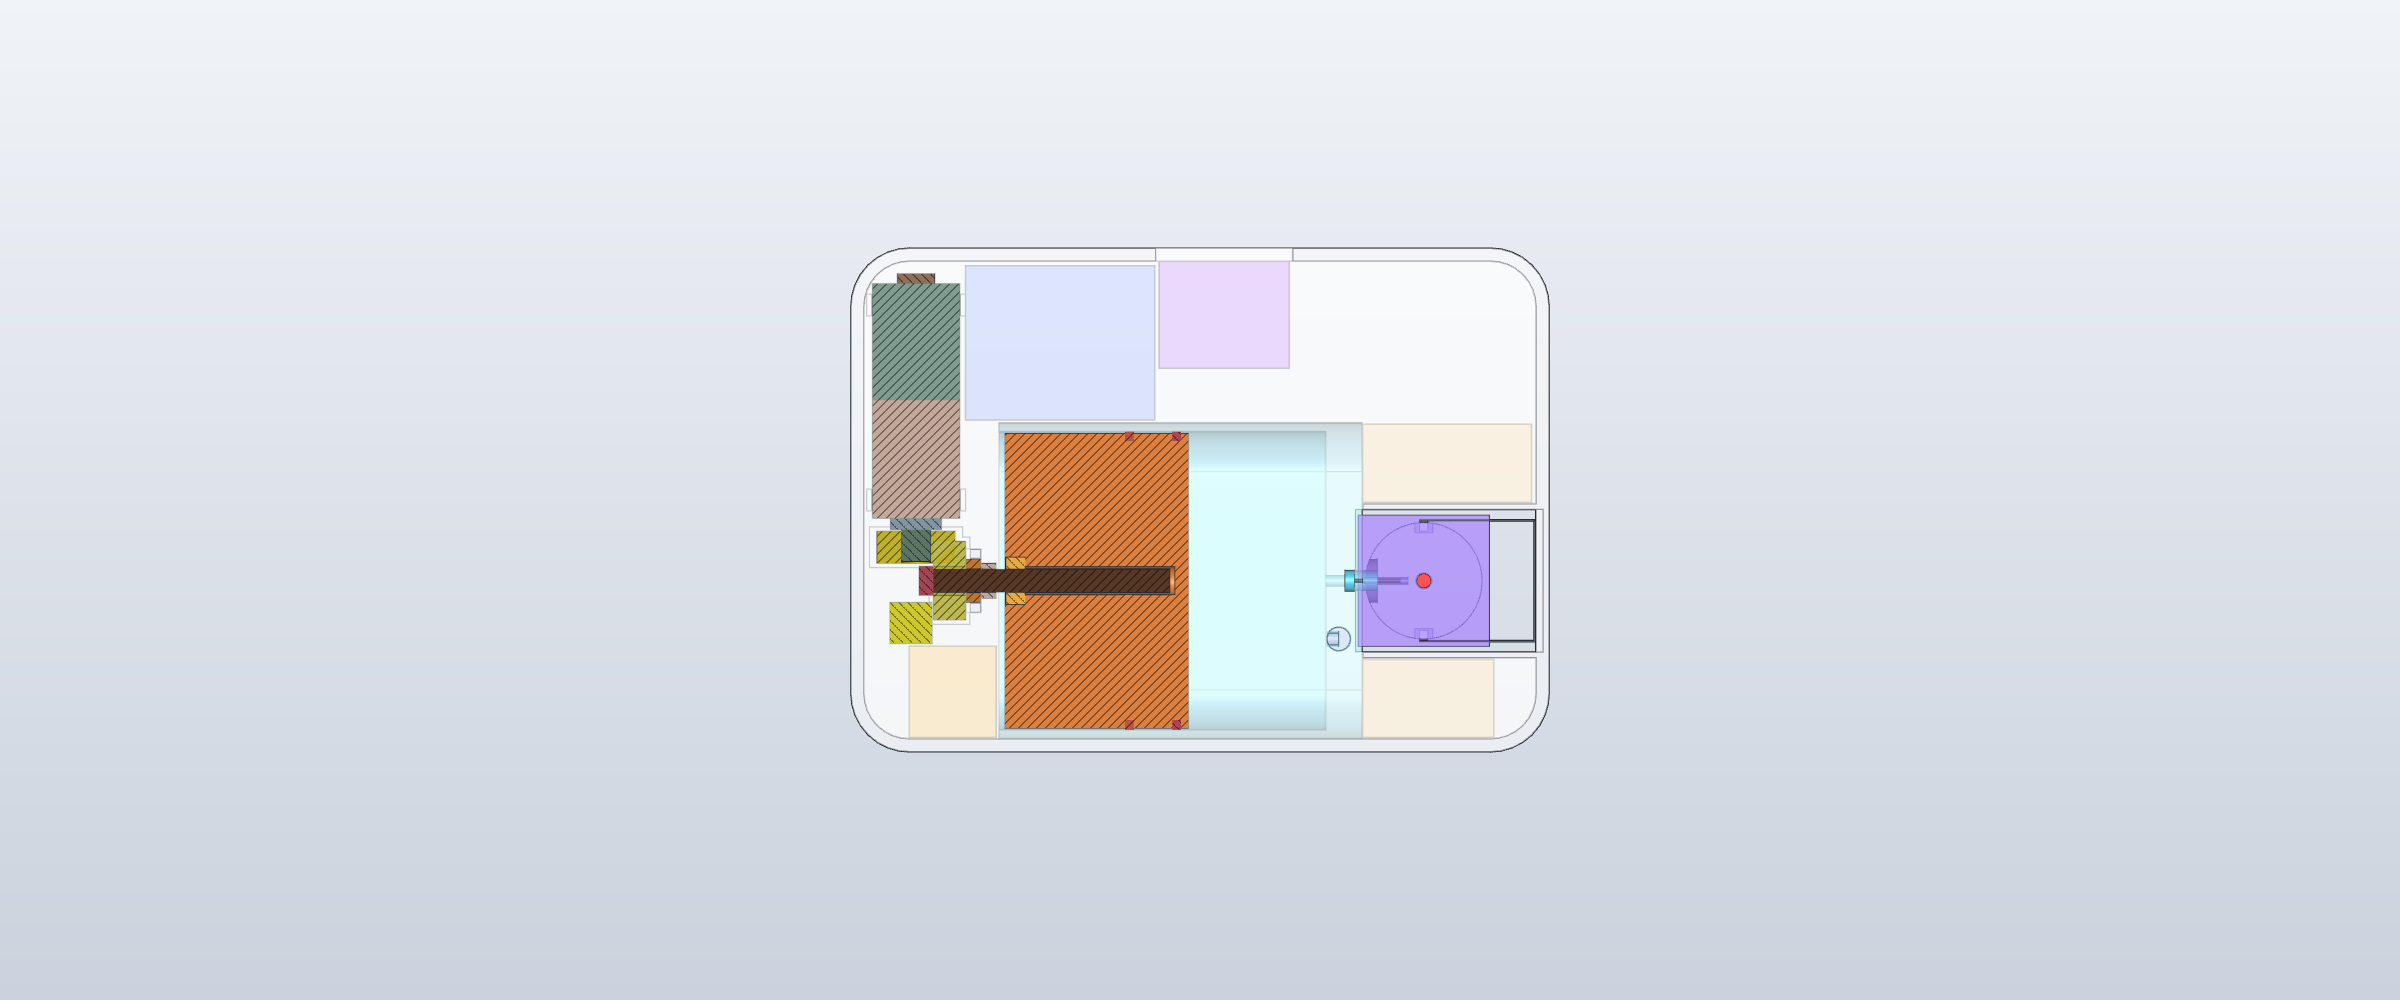
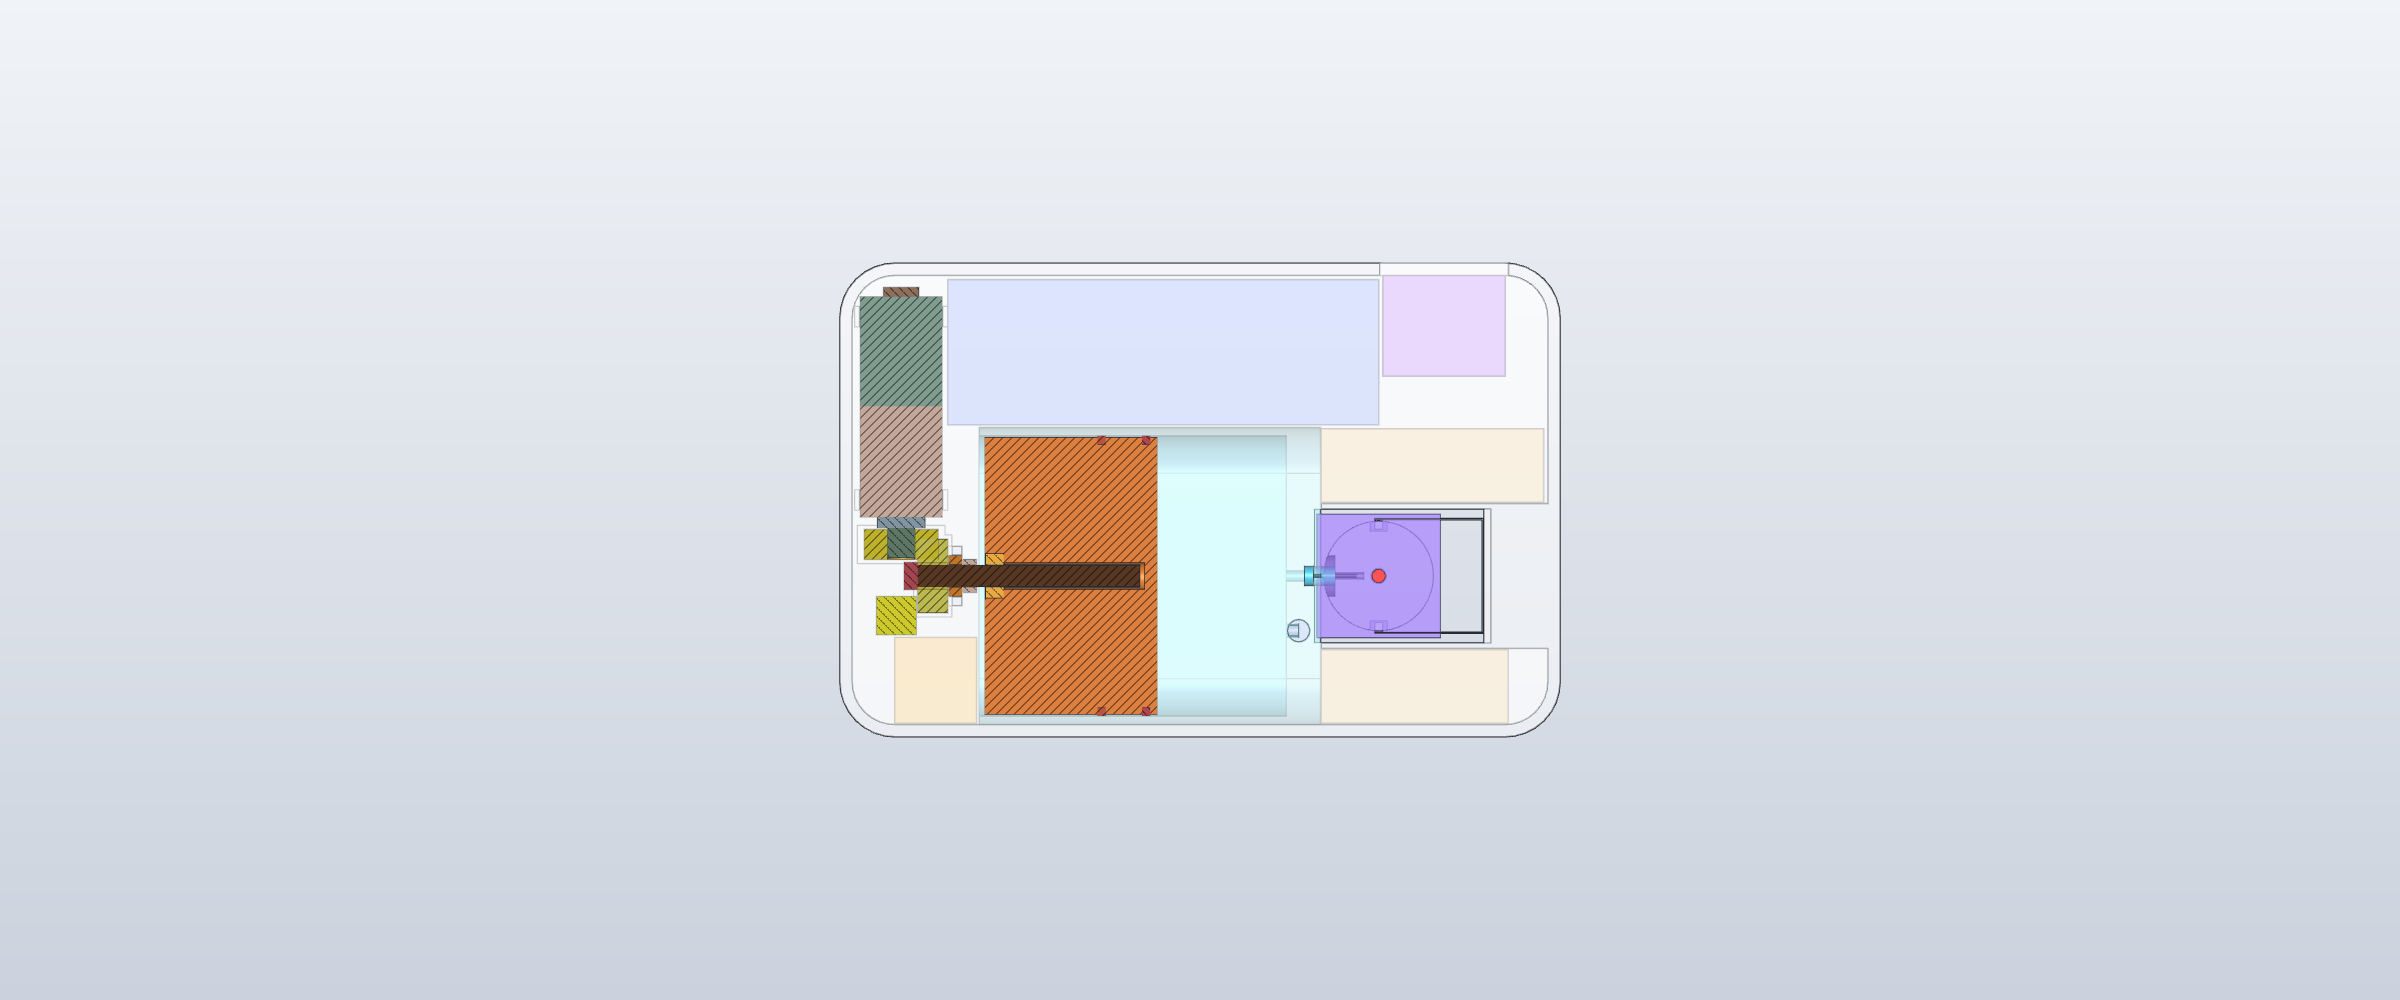
feat(mechanical): cup pod uses Ampul 301030 (90 mAh) in lane 2; battery selection, parts lock, annotated label
OP-100 52.61 x 34.6 x 8.5, OP-200 66.78 x 34.6 x 8.5; all checks + packing pass.

Changed region(s): [[0.3438, 0.248, 0.6562, 0.744]]

diff --git a/mechanical/cup_annotate.py b/mechanical/cup_annotate.py
@@ -89,7 +89,7 @@ def draw(p: dict, L: dict, svg_path: Path) -> Path:
         (K["x_d"], yr - 1.5, "Dock magnet in the head + dock hall above the pocket roof", "#ff7f00"),
         (sum(L["magnet"]) / 2, yr - 0.2, "Diametric magnet on gear B's rear face", "#cc2222"),
         (sum(L["tmag"]) / 2, L["tmag_y"], "TMAG5273 beside the magnet (0.5 mm gap), tiny sensor tab", "#ffd400"),
-        (sum(L["battery"]["x"]) / 2, L["battery"]["y"][0] + 5, "Battery keep-out (thin cell 2.2 x 10.4 x 30.6)", "#3a5fcd"),
+        (sum(L["battery"]["x"]) / 2, L["battery"]["y"][0] + 5, "Battery keep-out: Ampul 301030 (3.0 x 10 x 30, 90 mAh, PCM)", "#3a5fcd"),
         (sum(L["usb"]["x"]) / 2, sum(L["usb"]["y"]) / 2, "USB-C keep-out (+Y long wall of lane 2)", "#8a3fd0"),
         (sum(L["board"]["x"]) / 2, L["board"]["y"][1] - 1.5, "Main board keep-out above the battery", "#2e8b57"),
         (sum(L["aux"]["x"]) / 2, L["aux"]["y"][1] - 2.0, "Piezo / button / aux keep-out", "#7fbf7f"),

diff --git a/mechanical/battery-selection.md b/mechanical/battery-selection.md
@@ -1,0 +1,68 @@
+# Battery selection research (bench test pod only)
+
+Date: 2026-11-19. Scope: bench test project, never worn or used on a person.
+Targets: T <= 4.2 mm, W as small as possible (max 10.5), L <= 32 mm, >= 25 mAh, PCM, tabs or wires, buyable in DE in qty 1-5.
+
+Legend: **V** = product page read in this session. **S** = search snippet only (not confirmed). **C** = manufacturer catalogue table only, no retail source found.
+Naming rule used for pouch cells: TTWWLL = thickness, width, length in mm (e.g. 301030 = 3.0 x 10 x 30). Vendors are not fully consistent, so always verify the drawing/caliper.
+
+## Ranking (smallest width with >= 25 mAh, then availability)
+
+| # | Part | T x W x L (mm) | mAh | Chem / V | PCM | Connection | Price | Shop | Ship to DE | Status |
+|---|------|----------------|-----|----------|-----|------------|-------|------|-----------|--------|
+| 1 | Panasonic CG-425A (round pin) | Ø4.7 x 25 | 32 typ | Li-ion 3.8 V (charge 4.35 V) | No, external PCM required | M3 lead / through-hole / SMT variants | ichome.com listing about USD 21.9 (unverified) | Panasonic, ichome | Unknown | S. Mouser lists it obsolete, DigiKey forum (Sep 2025) says lead versions obsolete and out of stock. Treat as NOT buyable. |
+| 2 | Panasonic CG-420B (round pin) | Ø4.7 x (length not verified) | 27 rated / 29 typ | Li-ion 3.8 V | No | leads | DigiKey page seen, price not read | DigiKey | Unknown | S. DigiKey AU page says no longer manufactured. Not buyable. |
+| 3 | Perfect Amperex PATL003-400529 | 4.0 x 5 x 29 | 30 | Li-polymer 3.7 V | Not stated | Not stated | Not stated (B2B) | Globalsources knowledge page | Unknown, likely MOQ | S. Narrowest flat cell found; needs an inquiry (MOQ, PCM, tabs). |
+| 4 | Soldered 350824 | 3.5 x 8 x 24 by name; BerryBase page prints "24 x 8 x 35 mm" (axis order unclear, must verify) | 40 | Li-polymer 3.7 V | Yes (integrated protection, per page) | JST-PH 2.0 mm 2-pin socket on leads | EUR 3.80 | BerryBase.de (SOL-333275); also soldered.com | Yes, DE shop, in stock 1-3 days | **V (BerryBase)**. Best realistic buy: 8 mm wide, protected, plug-in. Thickness is the open point (3.5 mm if the name is right, 3.5 or 8 mm if the page axes are literal). Order 1, measure. |
+| 5 | Liter/"Lipo" 400830 | 4.0 x 8 x 30 | 70 | Li-polymer 3.7 V | Not stated | Not stated | n/a | none found | n/a | C (battery-lipo.com table). No retail listing found. |
+| 6 | Liter 350829 / 350830 (DNK350830 55 mAh with PCM) | 3.5 x 8 x 29-30 | 55 (350829) / 55-60 (350830) | Li-polymer 3.7 V | DNK sheet title says "with PCM" | Not read | n/a | dnkpower.com datasheet (PDF unreadable) | n/a | C/S. Retail unknown; manufacturer-direct possible. |
+| 7 | Liter 370730 | 3.7 x 7 x 30 | 42-50 | Li-polymer 3.7 V | n/a | n/a | n/a | none found | n/a | C. 7 mm wide; no retail found. |
+| 8 | Ampul 350926 | 3.5 x 9 x 26 | 90 (snippet; Liter table says 55 for 350926, so conflict) | Li-pol 3.7 V | Likely (ampul cells carry a chip) | Not read | not read | ampul.eu item 3472 | EU shop (PL), DE shipping not stated | S. Worth fetching/ordering; capacity claim suspicious. |
+| 9 | **Ampul 301030** | 3.0 x 10 x 30 | 90 (0.33 Wh) | Li-polymer 3.7 V, charge 4.2 V | Yes ("integrated protection chip") | Two wires (red/black), no connector | EUR 4.00 incl. VAT | ampul.eu/en/battery/6782-li-pol-battery-90mah-37v-301030 | Not stated on page (EU shop, delivery page not read) | **V**. Best verified "10 mm class" cell, 3.0 mm thin, 3x capacity margin. |
+| 10 | Ampul 401012 | 4.0 x 10 x 12 (page: 12 x 10 x 4) | 40 | Li-polymer 3.7 V | Yes | No connector (wires/tabs) | EUR 3.23 incl. VAT | ampul.eu/en/components/6411-li-pol-battery-40mah-37v-401012 | Not stated | **V**. Very short (12 mm) but only 40 mAh, 4.0 mm thick (0.2 mm margin). |
+| 11 | 401030 (generic) | 4.0 x 10 x 30 | 80-130 (varies by seller) | Li-polymer 3.7 V | Usually yes | Wires; one listing with JST 1.25 mm 2-pin | about EUR 3-8 | eBay.de e.g. items 357161444108 (110 mAh + JST 1.25), 114762316388 (120 mAh), 175891076543 (5-pack, 110 mAh) | eBay.de, likely CN/DE stock | S only (eBay returned 403). Capacities inflated; treat as 80-90 mAh. 4.0 mm leaves only 0.2 mm margin after swelling/wrap. |
+| 12 | polybattery LP401030 | 4.0 x 10 x 30 | 90 min / 100 typ | Li-polymer 3.7 V | Yes | Wires | Quote only | polybattery.com | Inquiry | **V** (page read). Not retail. |
+| 13 | Tempero 251020 | 3.0 x 10 x 22.1 | 25 | Li-polymer 3.7 V (3.0 V cutoff) | Not stated | JST PH 2.0 | not read | temperosystems.com.au | AU shop | S. Capacity at the minimum; overseas. |
+| 14 | AKZYTUE / YTKavq 301020 | 3.0 x 10 x 20 | 40 (claimed) | Li-polymer 3.7 V | Not stated | JST PH 2.0 | not read | amazon.com (US) listings | Check Amazon.de | S only. |
+| 15 | Grepow GRP7854F1-1C-3.7V-30mAh | Not stated on page | 30 | Li-polymer 3.7 V | Not stated | Not stated | USD 9.99 + USD 20 shipping, 1 order per 30 days | DigiKey | Unclear | **V** (page read), but dimensions missing, so not rankable. Ask Grepow for a drawing. |
+
+## Rejected
+
+- EEMB LP401230: 4.3 mm thick, 12.5 x 31 mm, 60 mAh min / 65 typ / 100 label. Fails thickness (**V**, eemb.com/product-121).
+- Liter 500527 (5.0 x 5 x 27, 35 mAh) and 500522: 5.0 mm thick. Fails thickness (C).
+- Varta CP1254 / CP0854 coins: Ø12 / Ø8, noted only.
+- Panasonic BR425: primary, not rechargeable.
+
+## Findings and caveats
+
+1. **True pin cells (Ø <= 5 mm) are effectively not buyable by a private person.** Only Panasonic's CG-4xx/CG-320 family showed up, and the lead versions are obsolete/out of stock at distributors. Panasonic also states external overcharge/over-discharge protection is required. Samples would need a business inquiry (Panasonic EU / ACTEC DK was named as a distributor in search results).
+2. **Narrowest practical option:** the 8 mm class (Soldered 350824, BerryBase DE, EUR 3.80, protected, JST-PH). Order one and measure thickness and length before locking the CAD.
+3. **Best "known good" fit if 10 mm width is acceptable:** Ampul 301030 (3 x 10 x 30, 90 mAh, PCM, EUR 4.00). Width 10 leaves only 0.5 mm margin to the 10.5 mm limit; pouch tolerance is typically +/-0.5 mm, so keep a swelling/tolerance allowance.
+4. Capacity figures for the same code differ strongly between sellers (401030: 80 to 180 mAh). Use the Liter table values (301030 = 60, 401030 = 90) as realistic.
+5. Pouch size codes: 300830 and 301230 returned no confirmed listing at all; 301230 and 401230 only appeared via EEMB (4.3 mm) and a Melopero PDF (not read).
+6. Power budget check: 7-10 mAh for 48 h at 0.15 mA, so even 25-40 mAh gives >= 2.5x margin. Capacity is not the limiter, width is.
+
+## Not covered / could not verify
+
+- Eremit, Reichelt, Conrad, Akkuteile, lipo-shop, Amazon.de and AliExpress product pages: no product pages surfaced or they were not fetchable (eBay returned 403, aspower.com.de did not resolve, ufine returned 403). Eremit in particular returned zero hits.
+- Great Power, BAK, GMB, VDL, AEC, PKCELL catalogues: no relevant cell confirmed.
+- Shipping to Germany for ampul.eu and the Panasonic distributors was not confirmed.
+
+## Recommended next steps
+
+1. Order 2x Soldered 350824 (BerryBase) and 2x Ampul 301030; measure with a caliper.
+2. Request the Perfect Amperex PATL003-400529 spec and MOQ (4 x 5 x 29, 30 mAh) if a 5 mm width is required.
+3. Request samples of Panasonic CG-425A via ACTEC or Panasonic EU only if the pin form factor is essential.
+4. Once measured, update `spec/design-parameters.md` first, then propagate.
+
+## Sources (read in this session unless marked S)
+
+- https://ampul.eu/en/battery/6782-li-pol-battery-90mah-37v-301030
+- https://ampul.eu/en/components/6411-li-pol-battery-40mah-37v-401012
+- https://www.berrybase.de/it/soldered-li-ion-akku-lithium-polymer-350824-3-7v-40mah-mit-2-pin-jst-stecker
+- https://www.battery-lipo.com/index.php?c=category&id=29 (Liter table, catalogue data)
+- https://polybattery.com/lp401030-90mah-small-3-7-v-4mm-flat-lipo-battery
+- https://eemb.com/product-121
+- https://www.digikey.com/en/products/detail/grepow-inc/GRP7854F1-1C-3-7V-30mAh/25603166
+- https://forum.digikey.com/t/cg-425a-m3-status/60326
+- S: https://www.globalsources.com/knowledge/30mah-ultranarrow-li-polymer-battery/, https://temperosystems.com.au/?p=9290, https://ampul.eu/en/battery/3472-li-pol-battery-90mah-37v-350926, eBay.de items listed above, Panasonic CG-425A/CG-420B pages and leaflet (search snippets), https://www.dnkpower.com/wp-content/uploads/2023/11/DNK350830-3.7V-55mAh-Lipo-Battery-Specification.pdf (PDF unreadable)

diff --git a/mechanical/V010-CUP.md b/mechanical/V010-CUP.md
@@ -13,7 +13,7 @@ Exactly two gears (z16 / z16 miter, 1:1), one rod, no carriage, tongue, idler, e
 
 | size | L x W x H (mm) | envelope | stroke | plunger | tank | bore | U/step |
 |---|---|---|---|---|---|---|---|
-| OP-100 | **47.96 x 34.6 x 8.5** | 14.1 ml | 9.4 mm | 12.6 mm | 24.9 mm | 20.3 x 5.5 | 0.00703 |
+| OP-100 | **52.61 x 34.6 x 8.5** | 15.5 ml | 9.4 mm | 12.6 mm | 24.9 mm | 20.3 x 5.5 | 0.00703 |
 | OP-200 | **66.78 x 34.6 x 8.5** | 19.6 ml | 18.8 mm | 22.0 mm | 43.8 mm | 20.3 x 5.5 | 0.00703 |
 
 Both PASS `check.py`; the 45 / 52 mm length and 32 mm width targets are MISSED (TARGET lines). Width 34.6: the transverse motor reaches 21.1 mm from the tank axis (gear stage + NFP body), so a 23 mm lane 1 forces W >= 34.6; lane 2 is cell width + 0.4 (11.0 mm with the placeholder cell) and the tank gets the rest (outer 21.5, bore 20.3 x 5.5; aspect 3.7). W = 32 would cap the bore at 16.7 (OP-100 50.2 mm earlier). Lane 2 can not be 6 mm: no real orderable cell is narrower than 10 mm (see battery below).
@@ -26,7 +26,7 @@ Both PASS `check.py`; the 45 / 52 mm length and 32 mm width targets are MISSED (
 ## Thrust (19 x 5.5 class plunger, estimate, VERIFY on the bench)
 NFP-608-26.45: 1.6 gf cm x 26.45 x 0.64 = 2.65 N mm at the gearhead; miter 1:1 eta 0.9 -> 2.39 N mm at the rod; M1.6 x 0.35 screw eta 0.2 -> **8.6 N** at the plunger. Needed (bore 20.3 x 5.5, 106 mm2): seal breakaway 2.0 N (bench 1.6 N scaled by perimeter 48.6/37.7) + 30 kPa occlusion 3.2 N = **5.2 N**; available 8.6 N = **1.65x** (>= 1.5x rule met, requirement >= 5 N met, SF 2 = 10.4 N not met). Fix if short: miter pair z16 (motor) : z20 (rod) = ratio 0.8 -> 10.7 N (+25 %), U/step 0.0045, plunger 25 % slower; firmware preset g16-20 exists.
 Plunger aspect 20.1 / 5.3 = 3.7 (limit 4.5); lip seals sit on the long flat sides as before (the stadium ring contacts the whole perimeter, oversize 0.15); anti-tilt: cup body 12.6 mm (OP-100) / 22 mm (OP-200) on a 20.3 mm width (L/W 0.62 / 1.08, check >= 0.5) plus two rings 3.25 mm apart; add guide fins if the bench shows yaw jamming.
-Battery: placeholder 401012 class (4.0 x 10 x 12 mm, 40 mAh, integrated PCM, ampul.eu listing 3.23 EUR, VERIFY) = about 8 days per charge at 3.4 mAh/day with 0.85 x 0.8 derating; 401030 (80 mAh, AS-Power listing, VERIFY) about 16 days but 32 mm long (+6 mm pod). The final cell comes from `mechanical/battery-selection.md` (separate research); only `cup.battery` in `params.json` changes, lane 2 and the tank follow automatically.
+Battery (`mechanical/battery-selection.md`): **Ampul 301030**, 3.0 x 10 x 30 mm, 90 mAh listed (60 mAh realistic per the Liter table), integrated protection chip, two wires, 4.00 EUR, https://ampul.eu/en/battery/6782-li-pol-battery-90mah-37v-301030 (page read; shipping to DE and the real size to be measured). Days per charge at 3.4 mAh/day (0.15 mA) with 0.85 x 0.8 derating: **about 12 days (60 mAh) to 18 days (90 mAh)**, far above 48 h + reserve; width, not capacity, is the limit. Backup: Soldered 350824 (40 mAh, JST-PH, BerryBase.de, about 8 days, dimensions to measure). The cell makes lane 2 the longer lane in OP-100 (31.5 mm cell + USB-C + corner): OP-100 is 4.6 mm longer than lane 1 alone needs.
 
 ## Dock (all values TODO-MEASURE; head estimated from the photos by proportion: dome d8.0 x 4.2, base 9 x 9)
 Bottom-open pocket 11.9 x 9.8 (head + 0.2 clearance + 3.5 slide), roof 0.5; the pod is lowered over the head and slid 3.5 mm (= needle insertion) until two U-clip teeth drop into the dome side notches. Footprint before (frozen insert + full-length tunnel): 21.2 x 15.2 insert/flange pocket and a 12.4 mm wide path along the whole pod; after: 11.9 x 9.8 (base-plate window 12.9 mm: a 9 mm base plate + slide; <= 12 needs a plate <= 8.1 mm; width 10 would need dome and plate <= 9.6).
@@ -39,5 +39,5 @@ Bore 20.3 x 5.5 (stroke 9.4 mm for 100 U), wall 0.6, outer 21.5 x 6.7, front wal
 Refill (pressure fill, spec 3c): remove the pod, turn it over, push water with a syringe through the underside septum while the firmware retracts the plunger at a fixed rate; the fill hole is inside the Velcro footprint and outside the dock window (check H14); the pocket roof and the docked head cover nothing else.
 
 ## Checks (`check.py --variant v010 --drive cup`)
-No interference, no open bodies, height <= 8.5; rod never inside the wet volume (analytic + CAD wet volumes at full / empty), plunger reaches the front wall, tip stays 0.4 mm off the cup bottom, tank volume = closed-bore model (no slot), septum not reachable when docked, needle recessed in the extended guard, dome path free, exactly two gears, nothing behind the motor column, thrust >= 5 N, packing (`cup_packing.py`): no empty full-height rectangle >= 4 x 4 mm (largest 23 mm2; free plan area lane 1 88 / lane 2 40 mm2 of 1007 / 508); the strips beside the dock pocket hold piezo / button / ICs.
+No interference, no open bodies, height <= 8.5; rod never inside the wet volume (analytic + CAD wet volumes at full / empty), plunger reaches the front wall, tip stays 0.4 mm off the cup bottom, tank volume = closed-bore model (no slot), septum not reachable when docked, needle recessed in the extended guard, dome path free, exactly two gears, nothing behind the motor column, thrust >= 5 N, packing (`cup_packing.py`): no empty full-height rectangle >= 4 x 4 mm (largest 23 mm2; free plan area lane 1 89 / lane 2 38 mm2 of 1107 / 559); the strips beside the dock pocket hold piezo / button / ICs.
 Open: closure screws / gasket are not detailed (no free bosses beside the full-width tank), vent d0.8 + ePTFE in the lid, FPC/solderless links between the keep-outs, dock hall threshold, CNC review.

diff --git a/docs/STATUS.md b/docs/STATUS.md
@@ -4,7 +4,7 @@
 > It is updated on every push. Last updated: **2026-11-19 (cloud session, milestone 1 merged)**.
 
 ## v0.1.0 cup pod, layout A (2026-11-19, mechanical worktree)
-- `generate.py --variant v010 --drive cup` / `check.py --variant v010 --drive cup`: transverse motor at the rear spanning both lanes, miter pair z16:z16 (2 gears), rod ends at gear B, cup plunger, tank (un-frozen for this variant: bore 20.3 x 5.5, fill septum underside + outlet in the front wall), dock at the right end of lane 1 (pocket 11.9 x 9.8, 3.5 mm slide, 301 FH U-clip, spring needle guard), reserved volumes for battery/board/USB-C. OP-100 47.96 x 34.6 x 8.5, OP-200 66.78 x 34.6 x 8.5 (bore 20.3 x 5.5; 45 / 52 mm and 32 mm width targets missed; cell = placeholder until battery-selection.md). Details: `mechanical/V010-CUP.md`. Decision needed: re-freeze the CNC tank (`out/v010-cup/reservoir-cnc`), clip material (301 FH foil), Insight Flex measurements (all dock values TODO-MEASURE).
+- `generate.py --variant v010 --drive cup` / `check.py --variant v010 --drive cup`: transverse motor at the rear spanning both lanes, miter pair z16:z16 (2 gears), rod ends at gear B, cup plunger, tank (un-frozen for this variant: bore 20.3 x 5.5, fill septum underside + outlet in the front wall), dock at the right end of lane 1 (pocket 11.9 x 9.8, 3.5 mm slide, 301 FH U-clip, spring needle guard), reserved volumes for battery/board/USB-C. OP-100 52.61 x 34.6 x 8.5, OP-200 66.78 x 34.6 x 8.5 (bore 20.3 x 5.5; 45 / 52 mm and 32 mm width targets missed; cell = Ampul 301030, see mechanical/battery-selection.md). Details: `mechanical/V010-CUP.md`. Decision needed: re-freeze the CNC tank (`out/v010-cup/reservoir-cnc`), clip material (301 FH foil), Insight Flex measurements (all dock values TODO-MEASURE).
 
 ## MILESTONE 1 (2026-11-19, cloud session) — what changed since the handoff below
 

diff --git a/docs/PARTS-LOCK.md b/docs/PARTS-LOCK.md
@@ -29,6 +29,7 @@
 | 19 | Plunger seal | **cast platinum-cure silicone, Shore A 40** in the printed mould | PCBWay silicone moulding (group buy); AliExpress 2-part Pt-silicone small kit 8-15 EUR for WATER tests only, skip for first pump | Smooth-On / Elkem / Wacker | 15–25 € kit (n/v) | CANDIDATE | Only DIY step. Medical 2-part Pt-cure options: Wacker SILPURAN 6000/40 A/B (Shore A 40, USP VI + selected ISO 10993 tests) and ELASTOSIL R plus 4001/40 MH (USP VI on request): manufacturer pages only, small-quantity distributor n/v. Smooth-On Smooth-Sil 940 class for water tests |
 | 20 | Screws | **M1.2 pan head, stainless (ISO 7045)**, lengths 3/4 mm | — (EU shop avoids duty line) | Amazon / AliExpress | ~3 € set | LOCKED | |
 | 21 | Programmer | **Nordic nRF52840-DK** (also usable as dev target) | J-Link EDU Mini / CMSIS-DAP clone (AliExpress ~8-15 EUR; tool, excluded from the 200 EUR budget) | Mouser / Digikey | ~41–42 € | LOCKED | Firmware already builds for the DK. Mouser DE 41.37 € (1,424 pcs cached), DigiKey NL/BE/ES 41.60–42.32 € excl. VAT (cached snapshots 2026-11) |
+| 22 | Battery (cup pod, lane 2) | **Ampul 301030 Li-Pol 3.7 V, 3.0 × 10 × 30 mm, 90 mAh listed (60 mAh realistic), integrated protection chip, two wires** | Soldered 350824 (40 mAh, JST-PH, BerryBase.de; dimensions to measure) | ampul.eu/en/battery/6782-li-pol-battery-90mah-37v-301030 | ~4 € | LOCK-AFTER-SAMPLE | Page read 2026-11-19 (`mechanical/battery-selection.md`); width 10 leaves 0.5 mm to the lane; measure on arrival. Cup pod also changes #3 (miter bevel pair z16:z16 instead of the spur pair), #6 (un-frozen 20.3 x 5.5 tank) and #7 (diametric Ø2 × 1 magnet on gear B): see `mechanical/V010-CUP.md`. |
 
 ## Evidence and sources (retrieval 2026-11)
 
